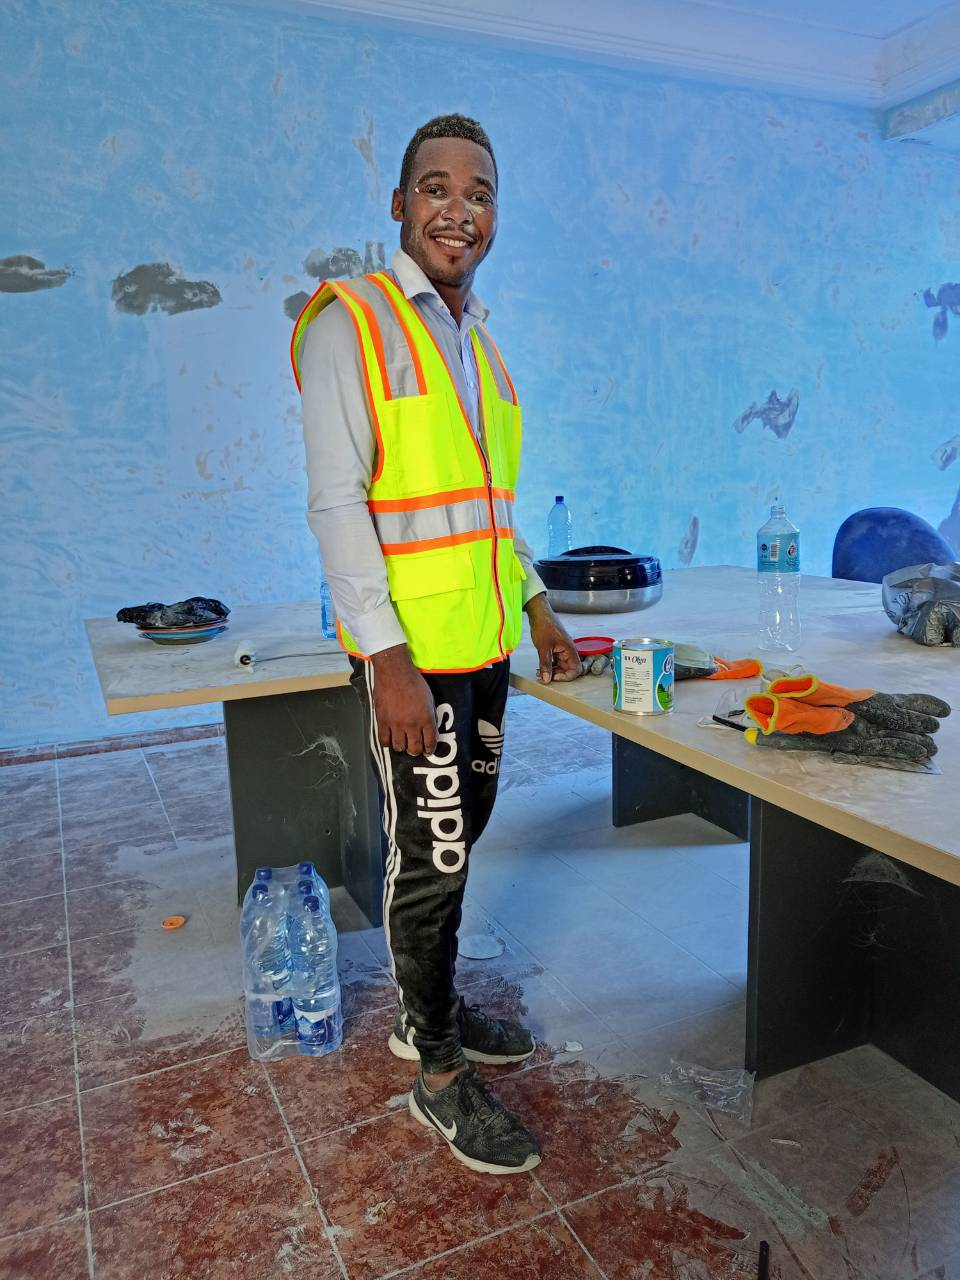
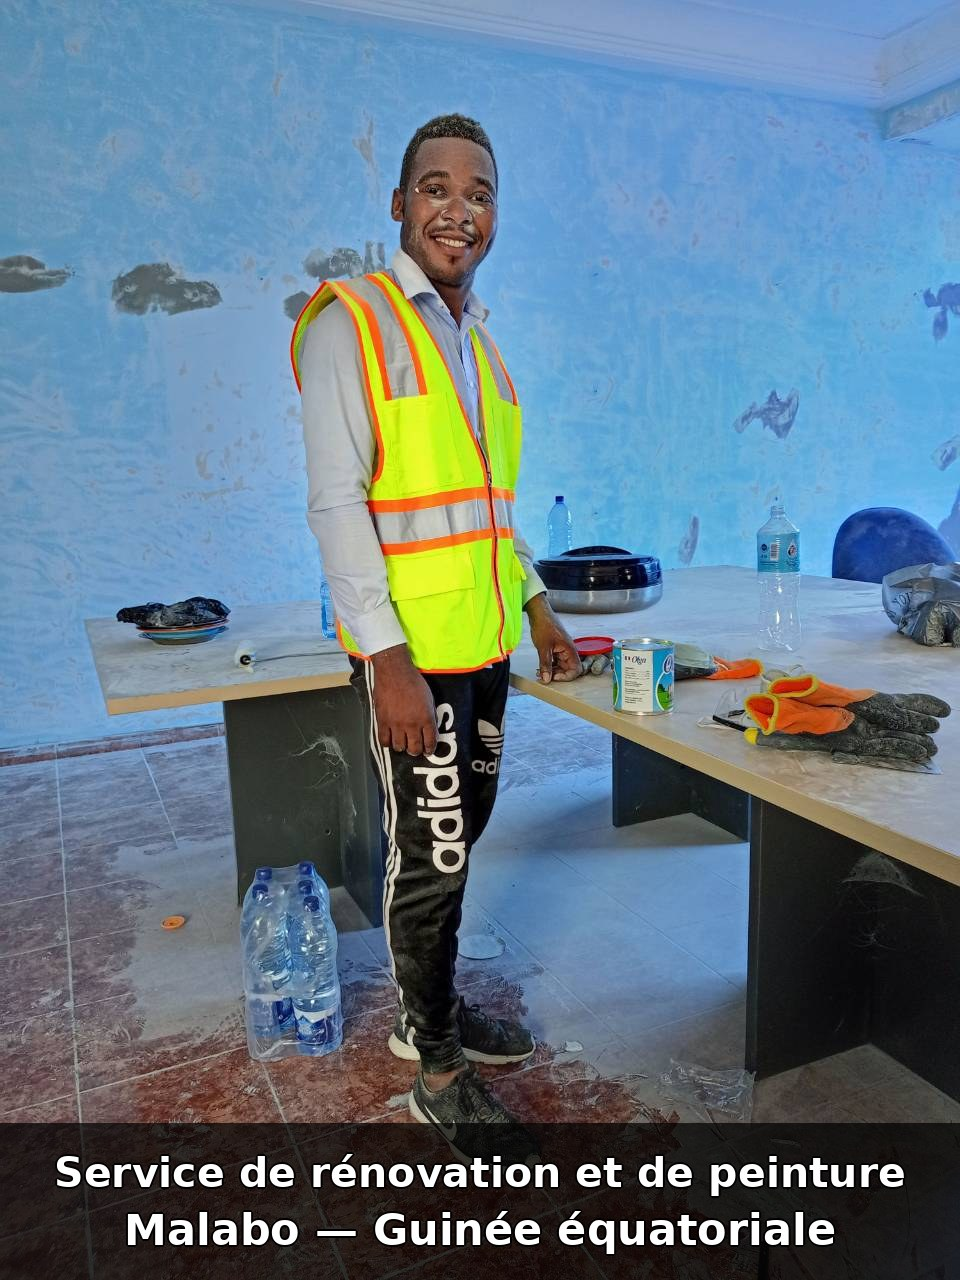
fix(accueil): légende Malabo sur la pub Joase Renov
Ajoute en bas de l’image « Service de rénovation et de peinture »
et « Malabo — Guinée équatoriale ».

Changed region(s): [[0.0, 0.875, 1.0, 1.0]]

diff --git a/src/lib/accueil-ads.ts b/src/lib/accueil-ads.ts
@@ -45,7 +45,7 @@ export const ACCUEIL_ADS: readonly AccueilAd[] = [
     id: "joase-renov-malabo",
     imagePath: "/ads/joase-renov-malabo.jpg",
     href: "/business",
-    title: "Joase Renov — rénovation & peinture (Malabo)",
+    title: "Service de rénovation et de peinture — Malabo, Guinée équatoriale",
   },
   {
     id: "desinsectisation-libreville",
